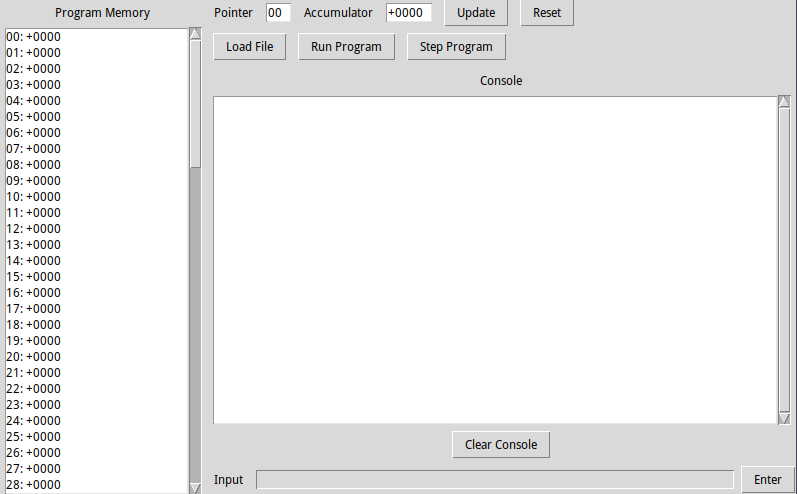
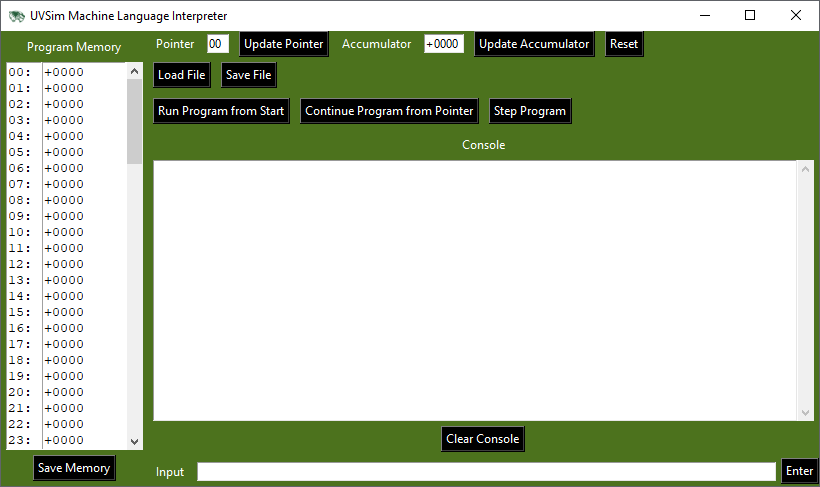
Add files via upload

diff --git a/readme.md b/readme.md
@@ -25,10 +25,25 @@ BasicML is a simple virtual machine that simulates a basic machine language usin
 2. Ensure that tkinter is installed before executing.
 3. Clone the repository to your local machine.
 
+## GUI file execution tutorial:
+![Annotated application screenshot](product_preview_annotated.png)
+- After running the file by executing `main.py` and ensuring that tkinter is installed on your machine, click the `Load File` button in the upper left hand corner.
+- Select file to execute.
+- Click the `Run Program from Start` file. The application will then follow the instructions in the instruction file and display its contents to the console.
+- The `Program Memory` is editable and requires signed 4 digit numbers. An error will display in the console if an invalid input is inserted and attempted to save into memory.
+- Clicking on the `Save Memory` button will save the contents of the memory display into program memory.
+- Clicking the `Update pointer` button will update the accumulator and the pointer with the values in the pointer and accumulator. Pressing enter in the accumulator and pointer fields does the same thing.
+- Clicking the `Update Accumulator` button will update the accumulator and the pointer with the values in the pointer and accumulator. Pressing enter in the accumulator and pointer fields does the same thing.
+- Clicking the `Reset` button will clear the console and reset the pointer and accumulator.
+- Clicking the `Continue Program from Pointer` will continue the program from the current pointer value until halted.
+- Clicking the `Step Program` button will run one instruction per click.
+- Clicking `Clear Console` will clear the content stored in the console.
+
 ## Usage
 
 - Insert any files with 5 character length words per line into the "files" folder.
 - Program will provide an error if the file is not in the correct format.
+- You may choose to modify the color scheme by editing the values in `theme.py`. A restart is required to apply these changes.
 
 ## Running the Program
 
@@ -73,13 +88,3 @@ When results exceed four digits, BasicML handles the overflow by truncating and 
 - **BRANCHNEG = 41** Branch to a specific location in memory if the accumulator is negative.
 - **BRANCHZERO = 42** Branch to a specific location in memory if the accumulator is zero.
 - **HALT = 43** Stop the program
-
-## GUI file execution tutorial:
-![Annotated application screenshot](product_preview_annotated.png)
-- After running the file by executing `main.py` and ensuring that tkinter is installed on your machine, click the `Load File` button in the upper left hand corner.
-- Select file to execute.
-- Click the `Run Program` file. The application will then follow the instructions in the instruction file and display its contents to the console.
-- Clicking the `Update` button will update the accumulator and the pointer with the values in the pointer and accumulator. Pressing enter in the accumulator and pointer fields does the same thing.
-- Clicking the `Step Program` button will run one instruction per click.
-- Clicking the `Reset` button will clear the console and reset the pointer and accumulator.
-- Clicking `Clear Console` will clear the content stored in the console.
